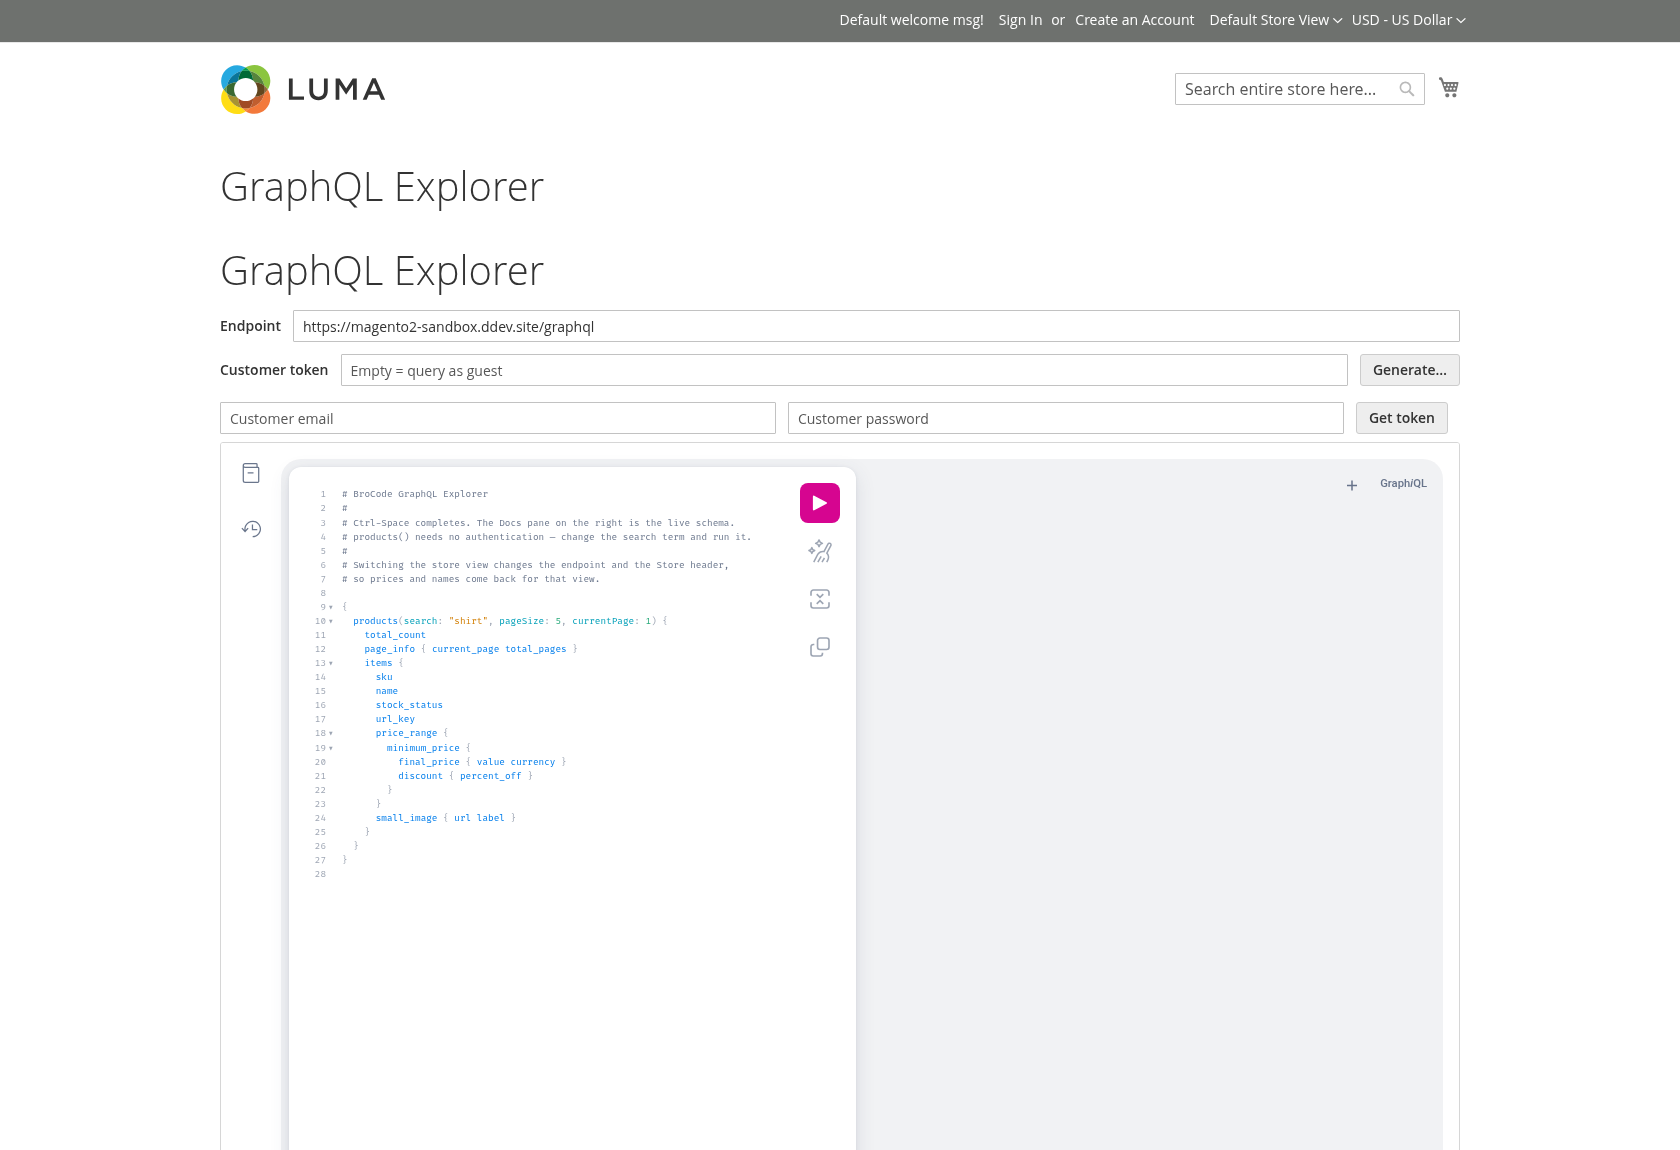
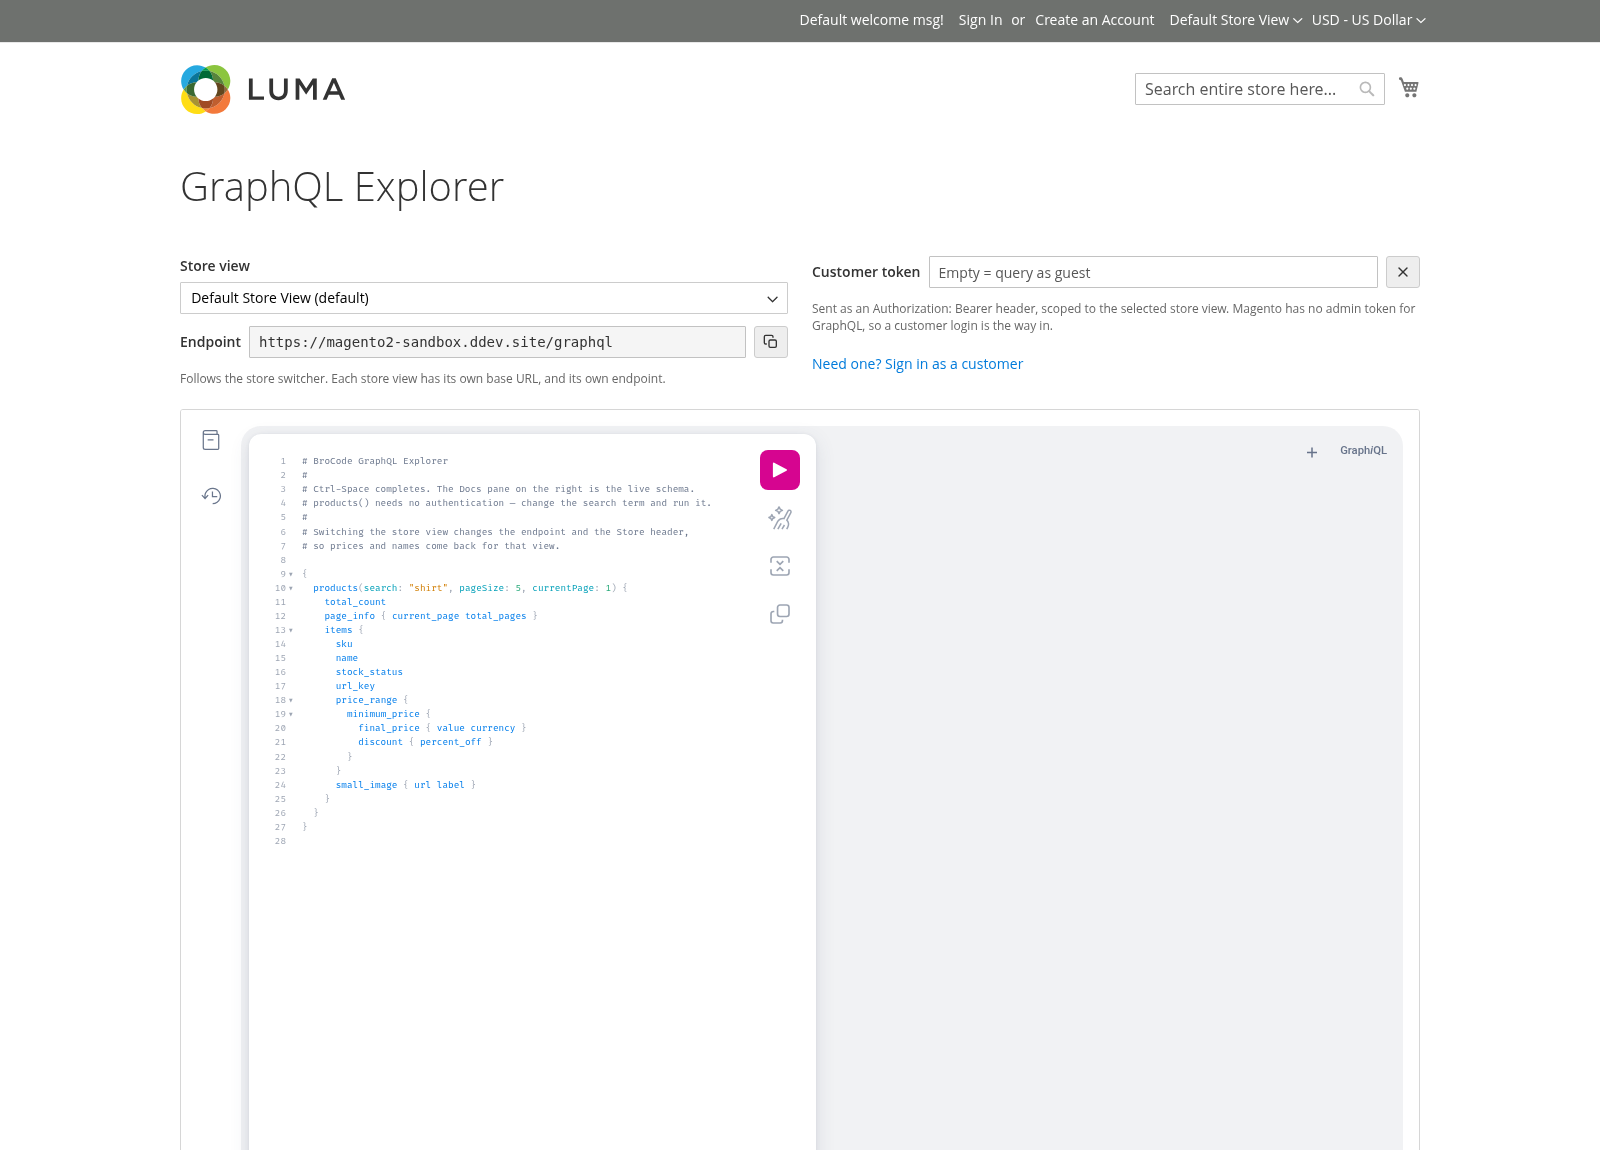
docs: add screenshots, and drop the duplicated heading on the public page
Three screenshots in the README: the Adminhtml explorer, the customer
token area with the mutation help panel open, and the public route.

Also fixes a real bug the screenshots exposed. The public page rendered
"GraphQL Explorer" twice — the controller sets the page title and the
template added its own h1 on top of it. Removed the template's heading;
the controller already owns the title.

diff --git a/view/base/web/css/explorer.css b/view/base/web/css/explorer.css
@@ -74,9 +74,6 @@
     cursor: text;
 }
 
-.brocode-gqle__title {
-    margin-bottom: 12px;
-}
 
 /* Message row sits full width under the token controls, so an error is not
    squeezed onto the end of an input row. */

diff --git a/README.md b/README.md
@@ -10,6 +10,8 @@ behind an ACL-protected admin page, and makes switching store views one dropdown
 
 ![GraphQL Explorer in the Magento admin](docs/screenshot.png)
 
+*System → Tools → GraphQL Explorer. Magento's own store switcher drives the `Store` header; the endpoint below it follows the selection.*
+
 ## What it does
 
 - **Full GraphiQL 3** — schema-aware autocompletion (Ctrl-Space), live docs pane,
@@ -99,6 +101,20 @@ the right one. Check it yourself in the explorer:
 ```graphql
 { __type(name: "Mutation") { fields { name description } } }
 ```
+
+## Screenshots
+
+**Customer tokens, generated inline**
+
+![The customer token area with an inline sign-in form and a help panel showing the generateCustomerToken mutation](docs/screenshot-token.png)
+
+The `?` beside *Request token* reveals the exact mutation, copyable, for running it from any HTTP client. One click on the ✕ clears the token and drops back to guest queries.
+
+**The optional public route**
+
+![The public explorer at /graphql-explorer rendered in the Luma theme](docs/screenshot-public.png)
+
+`/graphql-explorer`, for integrators who need the schema without an admin account. Disabled by default, Basic Auth on by default, store switching off by default.
 
 ## Requirements
 
